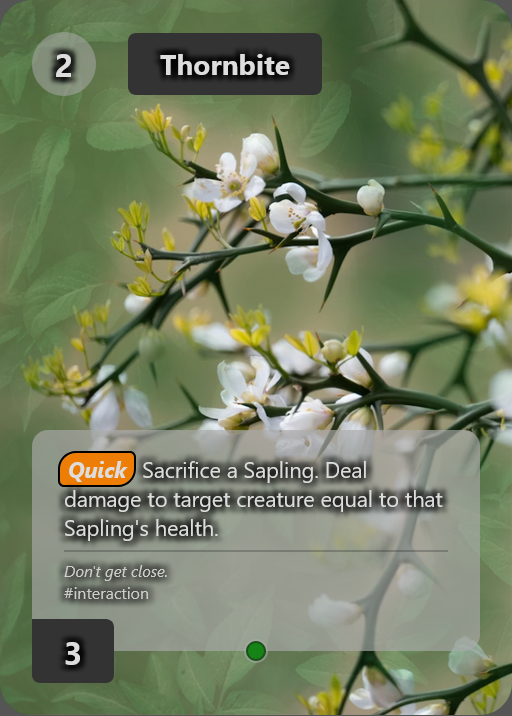
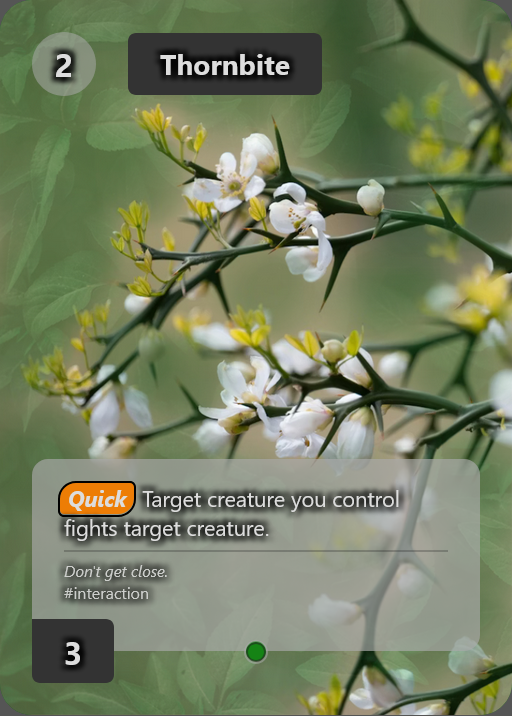
the big revamp

Changed region(s): [[0.0625, 0.5838, 0.9375, 0.7682]]

diff --git a/src/cards/green.tsx b/src/cards/green.tsx
@@ -2,18 +2,19 @@ import { ActionCard, CreatureCard } from "../card";
 import { BodyText, Flavor, Keyword } from "../typography";
 import { End, Enter, Exhaust, Quick, Trigger } from "../label";
 import { SYMBOL_ENERGY } from "../symbols";
+import { KeywordShift } from "./templating";
 
 export const earthBreaker: CreatureCard = {
   type: "creature",
   name: "Earthbreaker",
   color: "green",
-  cost: 3,
+  cost: 2,
   image: "farmer",
   nodes: [
     <>
       <Trigger />
       <BodyText>
-        When a card enters play next to this card, you can exhaust this card: gain 1{SYMBOL_ENERGY}.
+        When a card enters play next to this card, gain 2{SYMBOL_ENERGY}.
       </BodyText>
     </>,
     <Flavor>
@@ -21,7 +22,7 @@ export const earthBreaker: CreatureCard = {
     </Flavor>
   ],
   constructionCost: 3,
-  power: 2,
+  power: 1,
   toughness: 3,
   tags: ["generator"],
 }
@@ -34,9 +35,9 @@ export const fieldhand: CreatureCard = {
   image: "fieldhand",
   nodes: [
     <>
-      <Enter />
+      <Trigger />
       <BodyText>
-          Create a 0/1 Sapling token next to any creature you control.
+        When a card enters play next to this card, draw a card.
       </BodyText>
     </>,
     <Flavor>
@@ -56,18 +57,18 @@ export const greenReaper: CreatureCard = {
   cost: 3,
   image: "green-reaper",
   nodes: [
-    <>
-      <Exhaust />
-      <BodyText>
-        Sacrifice a Sapling. Draw a card.
-      </BodyText>
-    </>,
+    <KeywordShift>
+      Draw a card.
+    </KeywordShift>,
+    <BodyText>
+      This gets +1/+0 for each adjacent creature.
+    </BodyText>,
     <Flavor>
       You reap what you sow.
     </Flavor>
   ],
   constructionCost: 2,
-  power: 1,
+  power: 3,
   toughness: 2,
   tags: ["extender"],
 }
@@ -80,10 +81,14 @@ export const motherOfAllBloom: CreatureCard = {
   image: "mother-of-all-bloom",
   nodes: [
     <>
-      <Enter />
       <BodyText>
-        Replace any number of Sapling tokens you control with a Bloom token
-        with <Keyword>Trample</Keyword>, and power and health equal to the health of the replaced Sapling token.
+        Adjacent creatures get +3/+3 and <Keyword>Trample</Keyword>.
+      </BodyText>
+    </>,
+    <>
+      <Exhaust />
+      <BodyText>
+        Target creature gains <Keyword>Trample</Keyword> until end of turn.
       </BodyText>
     </>,
     <Flavor>
@@ -103,17 +108,13 @@ export const composter: CreatureCard = {
   cost: 2,
   image: "composter",
   nodes: [
+    <KeywordShift>
+      This gets +1/+1.
+    </KeywordShift>,
     <>
       <Trigger />
       <BodyText>
-        When this creature attacks, you may spawn a Sapling token next to a creature you control.
-      </BodyText>
-    </>,
-    <>
-      <Trigger />
-      <BodyText>
-        When a friendly creature dies, you may exhaust this:
-        Create a Sapling token next to a creature you control.
+        Whenever a friendly creature dies, you can exhaust this card: Target creatures gets +1/+1.
       </BodyText>
     </>,
     <Flavor>
@@ -174,7 +175,7 @@ export const lifetender: CreatureCard = {
   cost: 2,
   image: "lifetender",
   nodes: [
-    <BodyText>Adjacent creatures gain +1/+1</BodyText>,
+    <BodyText>Adjacent creatures get +1/+1</BodyText>,
     <Flavor>
       We're nothing without our friends, so take my hand.
     </Flavor>
@@ -192,14 +193,17 @@ export const nightwatchman: CreatureCard = {
   cost: 4,
   image: "nightwatchman",
   nodes: [
-    <BodyText>This creature gains +1/+0 for each adjacent creature.</BodyText>,
+    <Keyword>Trample</Keyword>,
+    <BodyText>
+      This creature gets +1/+1 for each adjacent creature.
+    </BodyText>,
     <Flavor>
       The night is dark and full of horrors, luckily, Jonah is out there as well.
     </Flavor>
   ],
   constructionCost: 3,
-  power: 1,
-  toughness: 3,
+  power: 2,
+  toughness: 1,
   tags: ["consistency"],
 }
 
@@ -210,7 +214,9 @@ export const strappingYoungLass: CreatureCard = {
   cost: 1,
   image: "strapping-young-lass",
   nodes: [
-    <BodyText>You may replace a Sapling when playing this card. If you do, it gains power equal to that Sapling's toughness.</BodyText>,
+    <KeywordShift>
+      This gets +1/+0 for each adjacent creature.
+    </KeywordShift>,
     <Flavor>
       Barely outta the crib, but a farmgirl's built different. Eat your veggies, kids.
     </Flavor>
@@ -229,9 +235,9 @@ export const seedsower: CreatureCard = {
   image: "seedsower",
   nodes: [
     <>
-      <Enter />
+      <End />
       <BodyText>
-        Create a Sapling token next to a creature you control.
+        Target creature gets +1/+1.
       </BodyText>
     </>,
     <Flavor>
@@ -274,7 +280,7 @@ export const sapling: CreatureCard = {
     <>
       <End />
       <BodyText>
-        Gain +0/+1.
+        Get +0/+1.
       </BodyText>
     </>,
     <Flavor>
@@ -330,7 +336,7 @@ export const springHarvest: ActionCard = {
   image: "spring-harvest",
   nodes: [
     <BodyText>
-      Sacrifice a Sapling, gain {SYMBOL_ENERGY} equal to its health.
+      Return target creature you control to your hand, gain {SYMBOL_ENERGY} equal to its health.
     </BodyText>,
     <Flavor>
       With spring comes joy. Toil paying off.
@@ -371,7 +377,7 @@ export const thornbite: ActionCard = {
     <>
       <Quick />
       <BodyText>
-        Sacrifice a Sapling. Deal damage to target creature equal to that Sapling's health.
+        Target creature you control fights target creature.
       </BodyText>
     </>,
     <Flavor>

diff --git a/src/cards/templating.tsx b/src/cards/templating.tsx
@@ -1,0 +1,22 @@
+import type { ReactNode } from "react";
+import { BodyText, Keyword } from "../typography";
+
+const verboseKeywords = false
+
+export function KeywordShift({
+  children,
+}: {
+  children: ReactNode
+}) {
+  return (
+    <>
+      <Keyword>Shift</Keyword>&#32;
+      <BodyText>
+        {verboseKeywords && (
+          "(You may play this card into the cell of a creature you currently control by shuffling that creature back into your deck) "
+        )}
+        {children}
+      </BodyText>
+    </>
+  )
+}
